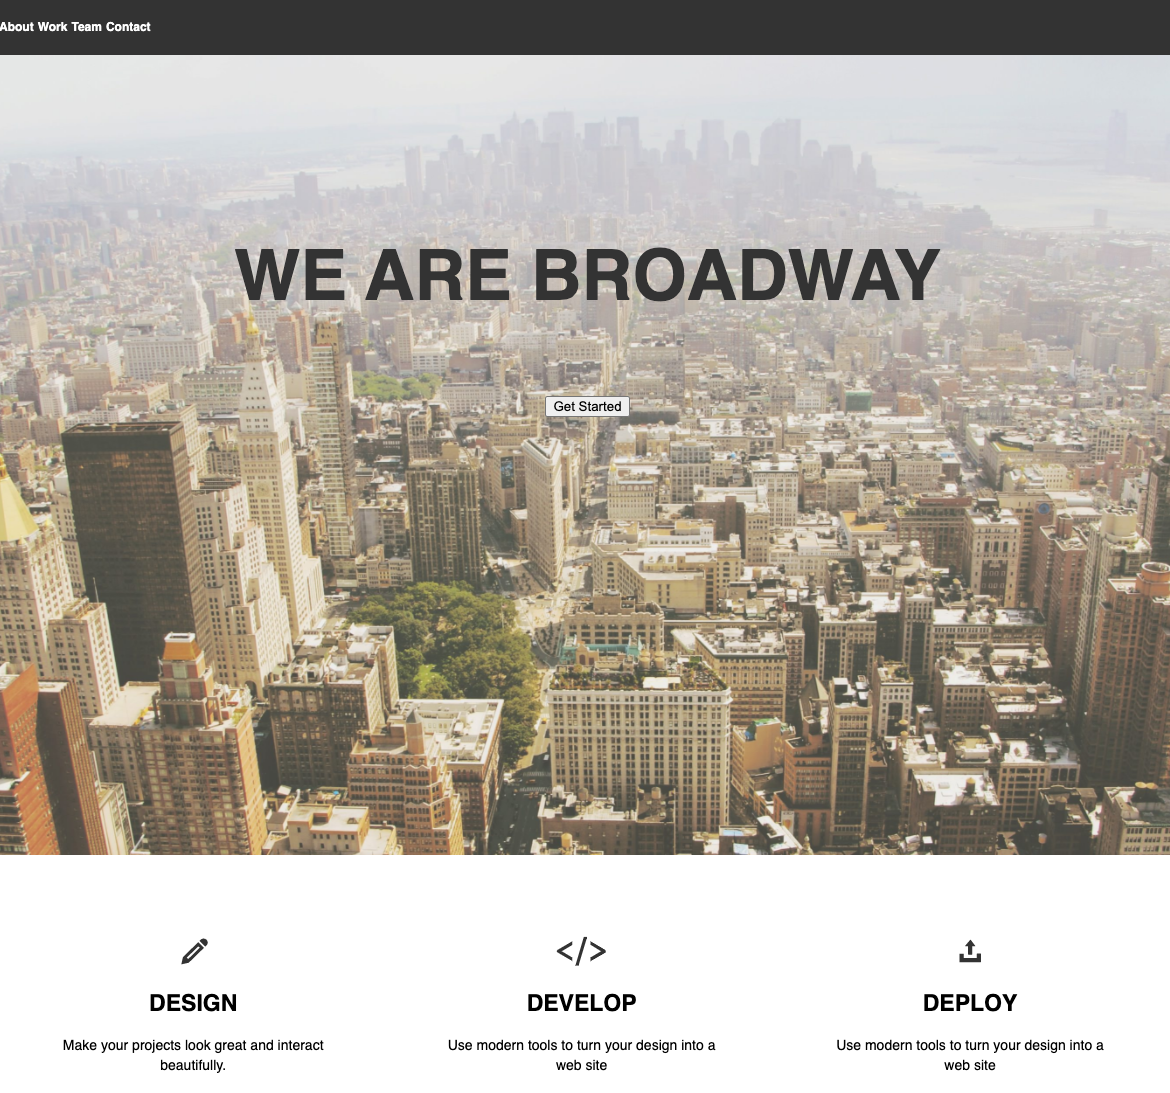
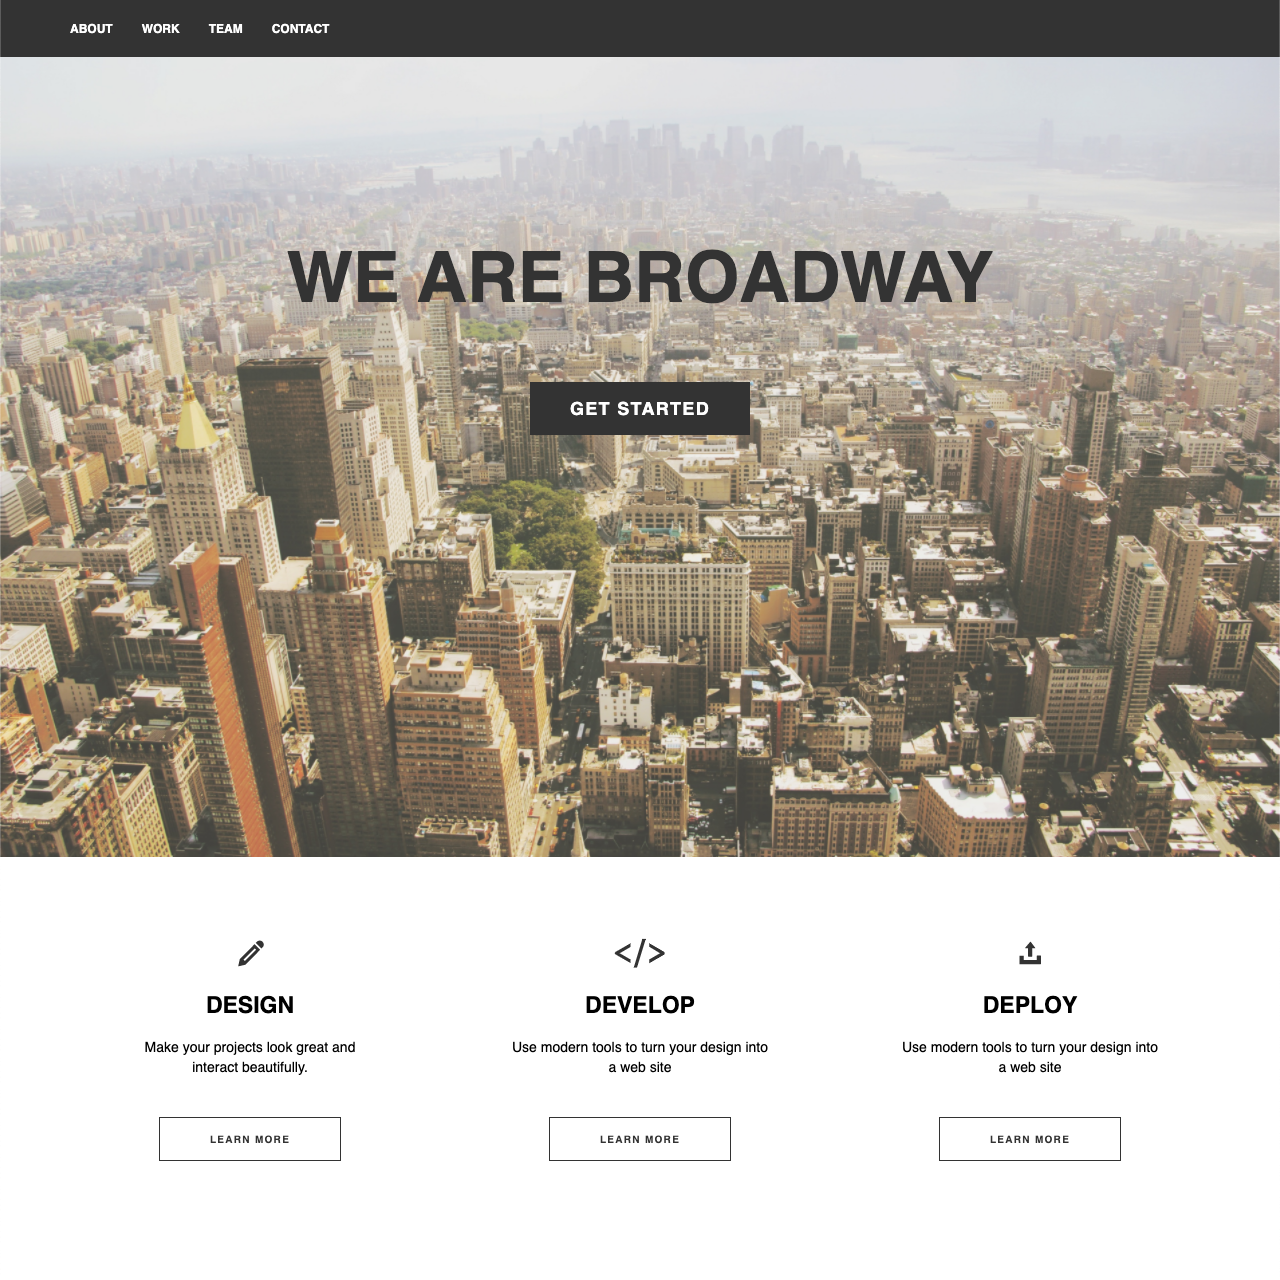
some ui tweaks and link updates

diff --git a/app/assets/stylesheets/portfolio.scss b/app/assets/stylesheets/portfolio.scss
@@ -7,6 +7,11 @@
     overflow: hidden;
 }
 
+.hero {
+    object-fit: cover;
+    object-position: top;
+}
+
 
 .thumbnail {
     max-width: 400px;
@@ -17,5 +22,16 @@
         height: 300px;
         width: 400px;
         object-fit: cover;
+        object-position: top;
+    }
+}
+
+#projects a {
+    color: black;
+    transition: color .5s;
+
+    &:hover {
+        color: #007bff;
+        text-decoration: none;
     }
 }
